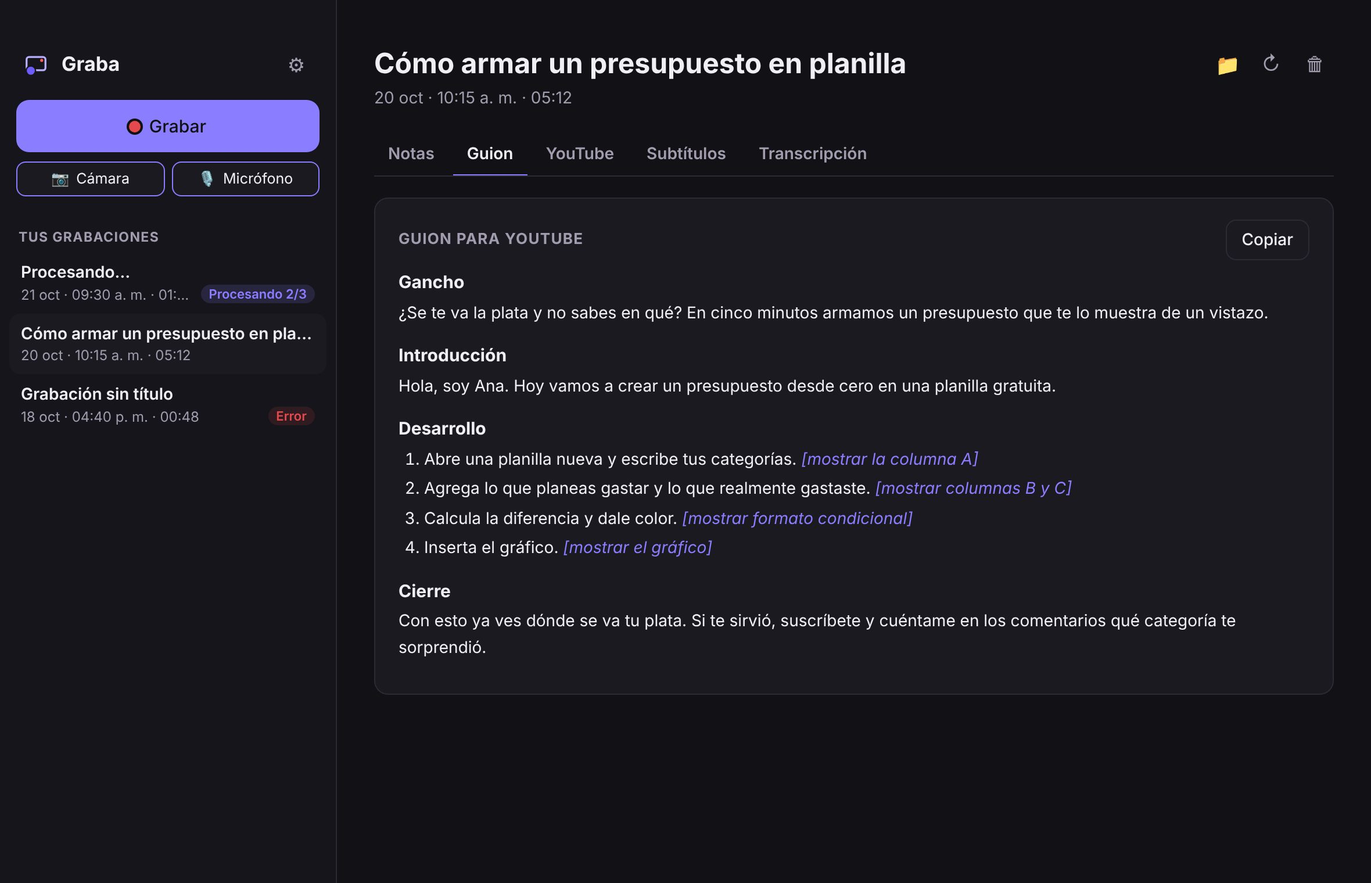
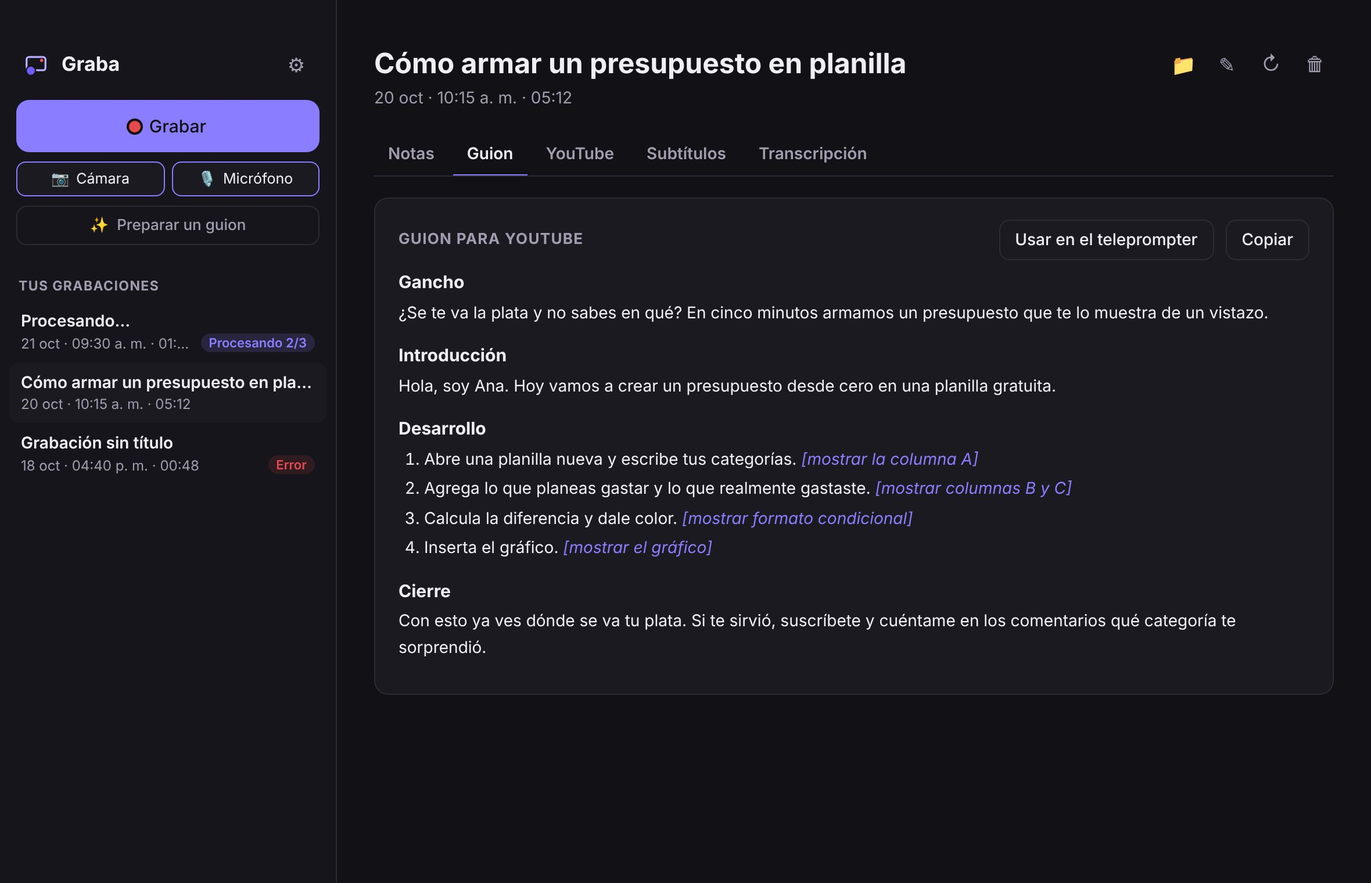
Página: guion con IA y teleprompter, sin fines de lucro, Mac/Windows/Linux, actualizaciones y capturas nuevas
Claude-Session: https://claude.ai/code/session_01TyvxqugowLhc2PJoD1xgz2

diff --git a/docs/index.html b/docs/index.html
@@ -4,7 +4,7 @@
 <meta charset="utf-8">
 <meta name="viewport" content="width=device-width, initial-scale=1">
 <title>Graba — graba tu pantalla y tu IA te deja el guion para YouTube | Gratis y privado</title>
-<meta name="description" content="Graba tu pantalla con tu cámara, como Loom, pero todo en tu computador. Tu propia IA (Claude, ChatGPT o Gemini) escribe notas, guion para YouTube, títulos, descripción con capítulos y subtítulos. Gratis y de código abierto.">
+<meta name="description" content="Graba tu pantalla con tu cámara, como Loom, pero todo en tu computador. Tu IA prepara el guion para el teleprompter y después escribe notas, títulos, descripción con capítulos y subtítulos. Gratis, open source y sin fines de lucro. Mac, Windows y Linux.">
 <link rel="canonical" href="https://graba-app.github.io/graba/">
 <meta name="theme-color" content="#0d0c12">
 <link rel="icon" href="favicon.svg" type="image/svg+xml">
@@ -29,7 +29,7 @@
    "image": "https://graba-app.github.io/graba/img/compartir.png",
    "description": "Grabador de pantalla con cámara que transcribe en tu computador y usa tu propia IA para escribir notas, guion para YouTube, títulos, descripción con capítulos y subtítulos.",
    "applicationCategory": "MultimediaApplication",
-   "operatingSystem": "macOS 15",
+   "operatingSystem": "macOS 15, Windows 10, Windows 11, Linux",
    "license": "https://opensource.org/licenses/MIT",
    "isAccessibleForFree": true,
    "offers": { "@type": "Offer", "price": "0", "priceCurrency": "USD" },
@@ -41,6 +41,7 @@
    "mainEntity": [
     { "@type": "Question", "name": "¿Es una alternativa gratis a Loom?", "acceptedAnswer": { "@type": "Answer", "text": "Para grabar tu pantalla con tu cámara y tener el texto listo, sí: Graba es gratis, de código abierto y todo queda en tu computador. Si necesitas compartir un link al instante para que otros comenten, Loom sigue siendo mejor para eso." } },
     { "@type": "Question", "name": "¿Sube mi video a algún lado?", "acceptedAnswer": { "@type": "Answer", "text": "No. El video y la transcripción quedan en tu computador. A tu IA solo le llega el texto de la transcripción, con tu cuenta, igual que si lo pegaras en su chat." } },
+    { "@type": "Question", "name": "¿Por qué Graba es gratis?", "acceptedAnswer": { "@type": "Answer", "text": "Porque es un proyecto open source sin fines de lucro: no hay versión de pago, anuncios ni inversionistas. La mantiene su comunidad y la licencia es MIT." } },
     { "@type": "Question", "name": "¿Qué IA necesito?", "acceptedAnswer": { "@type": "Answer", "text": "La que ya tengas: Claude Code (Claude Pro o Max), Codex (cualquier plan de ChatGPT) o Antigravity CLI (Gemini). Se instala una vez y Graba la usa por ti." } }
    ]
   }
@@ -127,6 +128,13 @@
   .cmd code { flex: 1; min-width: 0; background: var(--fondo); border: 1px solid var(--linea); border-radius: 10px; padding: 11px 12px; font-size: 13px; overflow-x: auto; white-space: nowrap; color: #d9d6e3; }
   .cmd button { border: 1px solid var(--linea); background: var(--panel); color: var(--texto); border-radius: 10px; padding: 0 14px; font: 600 13px Inter, sans-serif; cursor: pointer; }
 
+  .instalar.tres { grid-template-columns: repeat(3, minmax(0, 1fr)); }
+  .carta.tuyo-so { border-color: var(--acento); }
+  .carta .chico { font-size: 14px; margin: 12px 0; }
+  .carta .boton { margin-top: auto; }
+  .carta { display: flex; flex-direction: column; }
+  .valor { padding: 20px; border-radius: 16px; background: var(--fondo2); border: 1px solid var(--linea); }
+  .valor b { display: block; font-family: var(--titulo); font-size: 19px; margin: 8px 0 4px; } .valor small { color: var(--suave); font-size: 14.5px; }
   details { border-bottom: 1px solid var(--linea); padding: 16px 0; max-width: 820px; }
   summary { cursor: pointer; font-weight: 600; font-size: 17.5px; list-style: none; display: flex; justify-content: space-between; gap: 16px; }
   summary::after { content: "+"; color: var(--acento); font-size: 22px; line-height: 1; } details[open] summary::after { content: "–"; }
@@ -142,7 +150,7 @@
 
   @media (max-width: 860px) {
     .barra nav { display: none; }
-    .pasos, .recibes, .tuyo, .instalar { grid-template-columns: minmax(0, 1fr); }
+    .pasos, .recibes, .tuyo, .instalar, .instalar.tres { grid-template-columns: minmax(0, 1fr); }
     .comunidad { grid-template-columns: repeat(2, minmax(0, 1fr)); }
     section { padding: 56px 0; } .heroe { padding-top: 48px; }
   }
@@ -152,20 +160,20 @@
 <body>
 <header class="barra"><div class="ancho">
   <a class="marca" href="./"><img src="img/logo-512.png" alt="">Graba</a>
-  <nav><a href="#como"><span data-es>Cómo funciona</span><span data-en>How it works</span></a><a href="#recibes"><span data-es>Qué recibes</span><span data-en>What you get</span></a><a href="#instalar"><span data-es>Instalar</span><span data-en>Install</span></a><a href="#preguntas"><span data-es>Preguntas</span><span data-en>FAQ</span></a><a href="#comunidad"><span data-es>Comunidad</span><span data-en>Community</span></a></nav>
+  <nav><a href="#como"><span data-es>Cómo funciona</span><span data-en>How it works</span></a><a href="#recibes"><span data-es>Qué recibes</span><span data-en>What you get</span></a><a href="#instalar"><span data-es>Instalar</span><span data-en>Install</span></a><a href="#libre"><span data-es>Sin fines de lucro</span><span data-en>Non-profit</span></a><a href="#preguntas"><span data-es>Preguntas</span><span data-en>FAQ</span></a><a href="#comunidad"><span data-es>Comunidad</span><span data-en>Community</span></a></nav>
   <button class="idioma" id="idioma" aria-label="Idioma / Language">EN</button>
 </div></header>
 
 <main>
 <div class="heroe"><div class="ancho">
   <h1><span data-es>Graba tu pantalla. <em>Tu IA te deja el guion.</em></span><span data-en>Record your screen. <em>Your AI writes the script.</em></span></h1>
-  <p class="sub"><span data-es>Pantalla, cámara y voz, como Loom. Al terminar, Graba transcribe en tu computador y tu propia IA escribe notas, un guion para YouTube, títulos, descripción con capítulos y subtítulos.</span><span data-en>Screen, camera and voice, like Loom. When you finish, Graba transcribes on your computer and your own AI writes notes, a YouTube script, titles, a description with chapters and subtitles.</span></p>
+  <p class="sub"><span data-es>Pantalla, cámara y voz, como Loom. Tu IA prepara el guion y lo lees en un teleprompter que no sale en el video. Al terminar, Graba transcribe en tu computador y te deja notas, títulos, descripción con capítulos y subtítulos.</span><span data-en>Screen, camera and voice, like Loom. Your AI prepares the script and you read it on a teleprompter that doesn't show in the video. When you finish, Graba transcribes on your computer and gives you notes, titles, a description with chapters and subtitles.</span></p>
   <div class="acciones">
-    <a class="boton principal" id="descargar" href="#instalar"><span class="rec"></span><span data-es>Descargar para Mac</span><span data-en>Download for Mac</span></a>
+    <a class="boton principal" id="descargar" href="https://github.com/graba-app/graba/releases/latest/download/Graba-macOS.zip"><span class="rec"></span><span data-es>Descargar para <b class="so-nombre">Mac</b></span><span data-en>Download for <b class="so-nombre">Mac</b></span></a>
     <a class="boton" href="https://github.com/graba-app/graba"><span data-es>Ver el código</span><span data-en>View the code</span></a>
   </div>
-  <p class="aviso-so" id="aviso-so" hidden><span data-es>Por ahora Graba es para Mac. Windows y Linux vienen en camino:</span><span data-en>For now Graba is for Mac. Windows and Linux are on the way:</span> <a href="https://github.com/graba-app/graba/discussions"><span data-es>avísame</span><span data-en>keep me posted</span></a></p>
-  <div class="sellos"><span><span data-es>Gratis</span><span data-en>Free</span></span><span><span data-es>Código abierto</span><span data-en>Open source</span></span><span><span data-es>Nada se sube a ningún servidor</span><span data-en>Nothing is uploaded</span></span></div>
+  <p class="aviso-so"><span data-es>Para Mac, Windows y Linux ·</span><span data-en>For Mac, Windows and Linux ·</span> <a href="#instalar"><span data-es>otras formas de instalar</span><span data-en>other ways to install</span></a></p>
+  <div class="sellos"><span><span data-es>Gratis para siempre</span><span data-en>Free forever</span></span><span><span data-es>Open source</span><span data-en>Open source</span></span><span><span data-es>Sin fines de lucro</span><span data-en>Non-profit</span></span><span><span data-es>Nada sale de tu computador</span><span data-en>Nothing leaves your computer</span></span></div>
   <picture class="captura"><source srcset="img/app-oscuro.jpg"><img src="img/app-oscuro.jpg" alt="Graba mostrando títulos, descripción con capítulos y etiquetas para YouTube de una grabación" width="2360" height="1520"></picture>
 </div></div>
 
@@ -182,6 +190,19 @@
   </div>
 </div></section>
 
+<section id="guion"><div class="ancho recibes">
+  <img class="captura2" src="img/app-guion-ia.jpg" alt="Preparar un guion en Graba: idea, duración y archivos" width="2360" height="1520" loading="lazy">
+  <div>
+    <h2><span data-es>Llega y graba</span><span data-en>Just show up and record</span></h2>
+    <p class="bajada"><span data-es>Cuéntale a tu IA la idea, cuánto debe durar y súmale tu presentación. Te escribe lo que vas a decir, con el largo justo.</span><span data-en>Tell your AI the idea, how long it should be and add your slides. It writes what you'll say, at just the right length.</span></p>
+    <div class="lista-recibes">
+      <div><span class="ico">✨</span><span><b><span data-es>Guion con tu IA</span><span data-en>Script with your AI</span></b><small><span data-es>De una idea, un PDF, un PowerPoint o tus notas. Con indicaciones como [pasa a la diapositiva 3].</span><span data-en>From an idea, a PDF, a PowerPoint or your notes. With cues like [go to slide 3].</span></small></span></div>
+      <div><span class="ico">📜</span><span><b><span data-es>Teleprompter invisible</span><span data-en>Invisible teleprompter</span></b><small><span data-es>Avanza solo mientras grabas, cerca de la cámara. Tú lo ves; el video no.</span><span data-en>It scrolls by itself while you record, near the camera. You see it; the video doesn't.</span></small></span></div>
+      <div><span class="ico">🎛</span><span><b><span data-es>Graba lo que quieras</span><span data-en>Record what you want</span></b><small><span data-es>Toda la pantalla, una ventana o un área. Cámara en círculo, cuadrada, horizontal o vertical, del tamaño que quieras.</span><span data-en>Whole screen, a window or an area. Camera as a circle, square, landscape or portrait, any size.</span></small></span></div>
+    </div>
+  </div>
+</div></section>
+
 <section id="recibes"><div class="ancho recibes">
   <div>
     <h2><span data-es>Lo que recibes</span><span data-en>What you get</span></h2>
@@ -192,6 +213,8 @@
       <div><span class="ico">🏷</span><span><b><span data-es>Títulos y etiquetas</span><span data-en>Titles and tags</span></b><small><span data-es>Tres opciones de título y etiquetas para buscar.</span><span data-en>Three title options and tags for search.</span></small></span></div>
       <div><span class="ico">⏱</span><span><b><span data-es>Descripción con capítulos</span><span data-en>Description with chapters</span></b><small><span data-es>Con los tiempos reales del video y el primero en 00:00, como pide YouTube.</span><span data-en>With the video's real times and the first one at 00:00, as YouTube requires.</span></small></span></div>
       <div><span class="ico">💬</span><span><b><span data-es>Subtítulos .srt</span><span data-en>.srt subtitles</span></b><small><span data-es>Listos para subir a YouTube Studio.</span><span data-en>Ready to upload to YouTube Studio.</span></small></span></div>
+      <div><span class="ico">✎</span><span><b><span data-es>Corrige con tus palabras</span><span data-en>Fix it in your own words</span></b><small><span data-es>"Dice Grava y es Graba": tu IA lo arregla en todo, también en los subtítulos, y lo aprende.</span><span data-en>"It says Grava and it's Graba": your AI fixes it everywhere, subtitles included, and learns it.</span></small></span></div>
+      <div><span class="ico">▶</span><span><b><span data-es>Directo a YouTube</span><span data-en>Straight to YouTube</span></b><small><span data-es>Conecta tu canal y sube con título, capítulos, etiquetas y subtítulos, o que se suba solo al terminar. (Muy pronto)</span><span data-en>Connect your channel and upload with title, chapters, tags and subtitles, or have it upload by itself. (Coming soon)</span></small></span></div>
     </div>
   </div>
   <img class="captura2" src="img/app-oscuro-guion.jpg" alt="Guion para YouTube generado por la IA en Graba" width="2360" height="1520" loading="lazy">
@@ -215,14 +238,33 @@
     transcripcion.json</pre>
 </div></section>
 
+<section id="libre"><div class="ancho">
+  <h2><span data-es>Open source y sin fines de lucro</span><span data-en>Open source and non-profit</span></h2>
+  <p class="bajada"><span data-es>Graba no es una empresa. No hay versión de pago, ni anuncios, ni inversionistas, ni datos que vender. La hacemos entre todos y es de todos.</span><span data-en>Graba isn't a company. There's no paid version, no ads, no investors, no data to sell. We build it together and it belongs to everyone.</span></p>
+  <div class="comunidad">
+    <div class="valor">💸<b><span data-es>Gratis para siempre</span><span data-en>Free forever</span></b><small><span data-es>Todas las funciones, sin límites de largo ni marcas de agua.</span><span data-en>Every feature, no length limits, no watermarks.</span></small></div>
+    <div class="valor">🔒<b><span data-es>Sin nube ni rastreo</span><span data-en>No cloud, no tracking</span></b><small><span data-es>Ni cuentas, ni telemetría. Tus videos no salen de tu computador.</span><span data-en>No accounts, no telemetry. Your videos stay on your computer.</span></small></div>
+    <div class="valor">📖<b><span data-es>Código abierto (MIT)</span><span data-en>Open source (MIT)</span></b><small><span data-es>Cualquiera puede ver, revisar y mejorar lo que hace.</span><span data-en>Anyone can read, review and improve what it does.</span></small></div>
+    <div class="valor">🤝<b><span data-es>Hecho en comunidad</span><span data-en>Community-made</span></b><small><span data-es>Ideas, pruebas, traducciones y código de quien quiera sumarse.</span><span data-en>Ideas, testing, translations and code from anyone who joins.</span></small></div>
+  </div>
+</div></section>
+
 <section id="instalar"><div class="ancho">
   <h2><span data-es>Instalar</span><span data-en>Install</span></h2>
-  <p class="bajada"><span data-es>Mac con chip Apple y macOS 15 o posterior. La primera vez, Graba te ayuda a elegir tu IA y descarga el transcriptor (una sola vez).</span><span data-en>Mac with Apple chip and macOS 15 or later. The first time, Graba helps you choose your AI and downloads the transcriber (once).</span></p>
-  <div class="instalar">
-    <div class="carta"><h3><span data-es>Con un comando</span><span data-en>With one command</span></h3><p><span data-es>Abre la Terminal (⌘ Espacio, escribe «Terminal») y pega esto. Descarga la última versión, verifica su huella y la abre.</span><span data-en>Open Terminal (⌘ Space, type “Terminal”) and paste this. It downloads the latest version, verifies it and opens it.</span></p>
-      <div class="cmd"><code id="cmd-mac">curl -fsSL https://raw.githubusercontent.com/graba-app/graba/main/instalar.sh | bash</code><button data-copiar="cmd-mac"><span data-es>Copiar</span><span data-en>Copy</span></button></div></div>
-    <div class="carta"><h3><span data-es>O descargando la app</span><span data-en>Or by downloading</span></h3><p><span data-es>Descomprime y arrastra Graba a Aplicaciones. Como aún no está firmada por Apple, la primera vez ve a Ajustes del Sistema → Privacidad y seguridad y toca «Abrir igualmente».</span><span data-en>Unzip and drag Graba to Applications. Since it isn't signed by Apple yet, the first time go to System Settings → Privacy &amp; Security and click “Open Anyway”.</span></p>
-      <a class="boton principal" href="https://github.com/graba-app/graba/releases/latest/download/Graba-macOS.zip"><span data-es>Descargar para Mac</span><span data-en>Download for Mac</span></a></div>
+  <p class="bajada"><span data-es>La primera vez, Graba te ayuda a elegir tu IA y descarga el transcriptor (una sola vez). Después se actualiza sola: te avisa dentro de la app.</span><span data-en>The first time, Graba helps you pick your AI and downloads the transcriber (once). After that it updates itself: it lets you know inside the app.</span></p>
+  <div class="instalar tres">
+    <div class="carta" data-so="mac"><h3>🍎 Mac</h3><p><span data-es>Chip Apple y macOS 15 o posterior. En la Terminal:</span><span data-en>Apple chip and macOS 15 or later. In Terminal:</span></p>
+      <div class="cmd"><code id="cmd-mac">curl -fsSL https://raw.githubusercontent.com/graba-app/graba/main/instalar.sh | bash</code><button data-copiar="cmd-mac"><span data-es>Copiar</span><span data-en>Copy</span></button></div>
+      <p class="chico"><span data-es>O descarga la app, arrástrala a Aplicaciones y la primera vez ve a Ajustes del Sistema → Privacidad y seguridad → «Abrir igualmente».</span><span data-en>Or download the app, drag it to Applications and the first time go to System Settings → Privacy &amp; Security → “Open Anyway”.</span></p>
+      <a class="boton" href="https://github.com/graba-app/graba/releases/latest/download/Graba-macOS.zip"><span data-es>Descargar para Mac</span><span data-en>Download for Mac</span></a></div>
+    <div class="carta" data-so="windows"><h3>🪟 Windows</h3><p><span data-es>Windows 10 u 11. En PowerShell:</span><span data-en>Windows 10 or 11. In PowerShell:</span></p>
+      <div class="cmd"><code id="cmd-win">irm https://raw.githubusercontent.com/graba-app/graba/main/instalar.ps1 | iex</code><button data-copiar="cmd-win"><span data-es>Copiar</span><span data-en>Copy</span></button></div>
+      <p class="chico"><span data-es>O con el instalador. Si aparece «Windows protegió tu PC»: «Más información» → «Ejecutar de todas formas».</span><span data-en>Or with the installer. If “Windows protected your PC” shows up: “More info” → “Run anyway”.</span></p>
+      <a class="boton" href="https://github.com/graba-app/graba/releases/latest/download/Graba-Windows.exe"><span data-es>Descargar para Windows</span><span data-en>Download for Windows</span></a></div>
+    <div class="carta" data-so="linux"><h3>🐧 Linux</h3><p><span data-es>x86_64 con PulseAudio o PipeWire. En una terminal:</span><span data-en>x86_64 with PulseAudio or PipeWire. In a terminal:</span></p>
+      <div class="cmd"><code id="cmd-linux">curl -fsSL https://raw.githubusercontent.com/graba-app/graba/main/instalar.sh | bash</code><button data-copiar="cmd-linux"><span data-es>Copiar</span><span data-en>Copy</span></button></div>
+      <p class="chico"><span data-es>O el AppImage: dale permiso de ejecución y ábrelo (necesita FUSE).</span><span data-en>Or the AppImage: make it executable and open it (needs FUSE).</span></p>
+      <a class="boton" href="https://github.com/graba-app/graba/releases/latest/download/Graba-Linux.AppImage"><span data-es>Descargar AppImage</span><span data-en>Download AppImage</span></a></div>
   </div>
   <p class="aviso-so" style="margin-top:18px"><span data-es>¿No tienes una IA instalada? <a href="ia.html">Guía sin tecnicismos para Claude, ChatGPT o Gemini</a>.</span><span data-en>No AI installed yet? <a href="ia.html">Plain-language guide for Claude, ChatGPT or Gemini</a>.</span></p>
 </div></section>
@@ -233,7 +275,9 @@
   <details><summary><span data-es>¿Sube mi video a algún lado?</span><span data-en>Does it upload my video anywhere?</span></summary><p><span data-es>No. El video y la transcripción quedan en tu computador. A tu IA solo le llega el texto de la transcripción, con tu cuenta, igual que si lo pegaras en su chat.</span><span data-en>No. The video and transcript stay on your computer. Your AI only gets the transcript text, with your account, just as if you pasted it into its chat.</span></p></details>
   <details><summary><span data-es>¿Qué IA necesito?</span><span data-en>Which AI do I need?</span></summary><p><span data-es>La que ya tengas: Claude Code (Claude Pro o Max), Codex (cualquier plan de ChatGPT, incluso el gratis con límites) o Antigravity CLI (Gemini). Se instala una vez; <a href="ia.html">aquí está la guía</a>.</span><span data-en>The one you already have: Claude Code (Claude Pro or Max), Codex (any ChatGPT plan, even free with limits) or Antigravity CLI (Gemini). You install it once; <a href="ia.html">here's the guide</a>.</span></p></details>
   <details><summary><span data-es>¿Por qué mi Mac dice que no puede verificar la app?</span><span data-en>Why does my Mac say it can't verify the app?</span></summary><p><span data-es>Porque Graba todavía no paga el certificado de Apple que quita ese aviso: es un proyecto gratis. El código es abierto, cada versión se compila en GitHub a la vista de todos y el instalador de un comando revisa la huella (SHA-256). Para abrirla: Ajustes del Sistema → Privacidad y seguridad → «Abrir igualmente». Con el comando de la Terminal no aparece.</span><span data-en>Because Graba doesn't pay yet for the Apple certificate that removes that warning: it's a free project. The code is open, every version is built on GitHub in public and the one-command installer checks the fingerprint (SHA-256). To open it: System Settings → Privacy &amp; Security → “Open Anyway”. The Terminal command skips it.</span></p></details>
-  <details><summary><span data-es>¿Funciona en Windows o Linux?</span><span data-en>Does it work on Windows or Linux?</span></summary><p><span data-es>Todavía no: vienen en camino con la misma interfaz. Si quieres ayudar a probarlas, pásate por la <a href="https://github.com/graba-app/graba/discussions">comunidad</a>.</span><span data-en>Not yet: they're on the way with the same interface. If you want to help test them, drop by the <a href="https://github.com/graba-app/graba/discussions">community</a>.</span></p></details>
+  <details><summary><span data-es>¿Funciona en Windows y Linux?</span><span data-en>Does it work on Windows and Linux?</span></summary><p><span data-es>Sí: es la misma app con la misma interfaz. En Windows y Linux la transcripción usa el procesador (en Mac, el chip gráfico), así que puede ser algo más lenta; el modelo «Liviano» va bien en casi cualquier computador.</span><span data-en>Yes: same app, same interface. On Windows and Linux transcription runs on the CPU (on Mac, the GPU), so it can be a bit slower; the “Light” model runs well on almost any computer.</span></p></details>
+  <details><summary><span data-es>¿Por qué es gratis? ¿Quién la mantiene?</span><span data-en>Why is it free? Who maintains it?</span></summary><p><span data-es>Porque Graba es un proyecto open source sin fines de lucro: no vende nada ni a nadie. La mantiene una comunidad de personas que la usan; cualquiera puede sumar ideas, pruebas, traducciones o código. La licencia es MIT.</span><span data-en>Because Graba is a non-profit open-source project: it doesn't sell anything to anyone. It's maintained by a community of people who use it; anyone can add ideas, testing, translations or code. The license is MIT.</span></p></details>
+  <details><summary><span data-es>¿Cómo se actualiza?</span><span data-en>How does it update?</span></summary><p><span data-es>Sola: Graba revisa si hay una versión nueva al abrirse y cada 6 horas, y te avisa dentro de la app. Tocas Actualizar y listo; tus grabaciones no se tocan.</span><span data-en>By itself: Graba checks for a new version when it opens and every 6 hours, and lets you know inside the app. Click Update and you're done; your recordings aren't touched.</span></p></details>
   <details><summary><span data-es>¿En qué idiomas funciona?</span><span data-en>Which languages does it support?</span></summary><p><span data-es>La app está en español e inglés. La transcripción reconoce muchos idiomas y la IA escribe en el mismo idioma en que hablas.</span><span data-en>The app is in Spanish and English. Transcription recognizes many languages and the AI writes in the same language you speak.</span></p></details>
 </div></section>
 
@@ -266,8 +310,14 @@
   const poner = (l) => { html.lang = l; boton.textContent = l === "es" ? "EN" : "ES"; document.title = TITULOS[l]; };
   poner(guardado || ((navigator.language || "es").toLowerCase().startsWith("es") ? "es" : "en"));
   boton.onclick = () => { const l = html.lang === "es" ? "en" : "es"; poner(l); try { localStorage.setItem("graba-idioma", l); } catch (e) {} };
-  // En Windows o Linux todavía no hay descarga: se avisa en vez de bajar algo que no sirve.
-  if (/Windows|Linux|X11/i.test(navigator.userAgent) && !/Android/i.test(navigator.userAgent)) document.getElementById("aviso-so").hidden = false;
+  // El botón principal descarga lo de tu sistema, y su tarjeta queda destacada.
+  const ua = navigator.userAgent;
+  const so = /Windows/i.test(ua) ? "windows" : /Linux|X11/i.test(ua) && !/Android/i.test(ua) ? "linux" : "mac";
+  const DESCARGAS = { mac: "Graba-macOS.zip", windows: "Graba-Windows.exe", linux: "Graba-Linux.AppImage" };
+  const NOMBRES = { mac: "Mac", windows: "Windows", linux: "Linux" };
+  document.getElementById("descargar").href = "https://github.com/graba-app/graba/releases/latest/download/" + DESCARGAS[so];
+  document.querySelectorAll(".so-nombre").forEach((n) => (n.textContent = NOMBRES[so]));
+  document.querySelector(`.carta[data-so="${so}"]`)?.classList.add("tuyo-so");
   document.querySelectorAll("[data-copiar]").forEach((b) => b.onclick = async () => {
     try { await navigator.clipboard.writeText(document.getElementById(b.dataset.copiar).textContent); } catch (e) {}
     const antes = b.innerHTML; b.textContent = html.lang === "es" ? "¡Copiado!" : "Copied!"; setTimeout(() => (b.innerHTML = antes), 1600);
